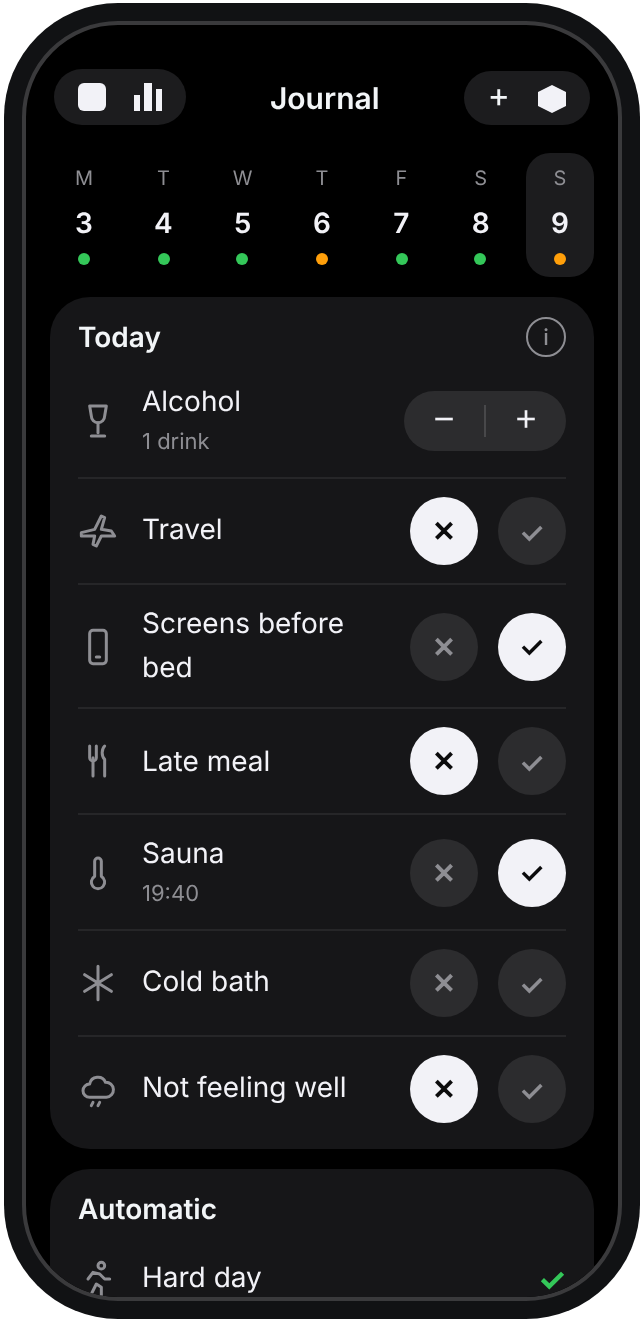
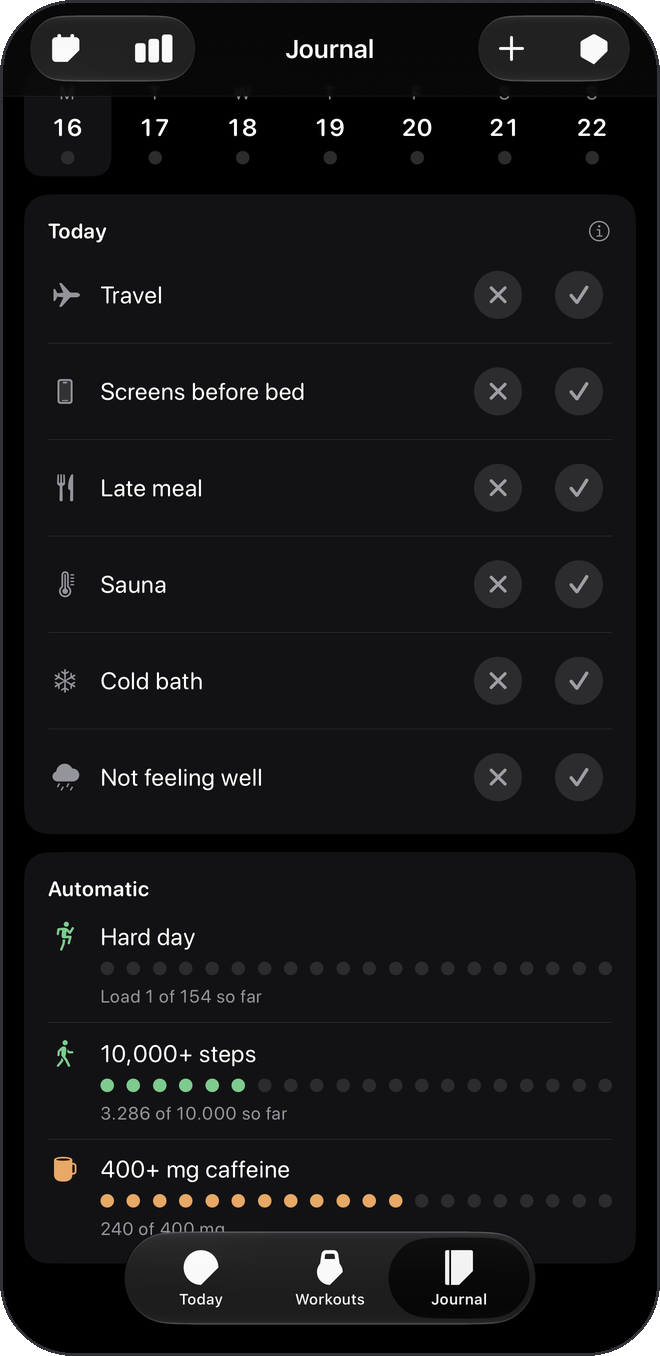
New screenshots: three-phone hero, fresh Journal, "Your Today, your way"
- Hero: three phones (Today, running dynamics, Journal) instead of one Today screen
- Journal screenshot replaced with the current design
- New section "Your Today, your way" with the edit-mode screenshot
- Removed the unused old Today screenshot

Claude-Session: https://claude.ai/code/session_01QmMcUr5iFopbERcNR8XppQ

diff --git a/index.html b/index.html
@@ -30,8 +30,8 @@
             <span class="cta-note">No account. Your data stays on your iPhone.</span>
           </div>
         </div>
-        <div class="split-media">
-          <img class="screen" src="assets/screen-today.png" width="660" height="1410" alt="Throttle Today screen with Readiness 48%, Target load and Sleep score 78%">
+        <div class="split-media hero-media">
+          <img class="hero-screens" src="assets/hero-screens.png" width="1240" height="983" alt="Throttle Today screen with Readiness, Target load and Sleep score, next to running dynamics and the Journal">
         </div>
       </section>
 
@@ -75,7 +75,7 @@
       <section class="split split-reverse">
         <div class="split-media">
           <div class="stack">
-            <img class="screen" src="assets/screen-journal.png" width="644" height="1324" alt="Throttle Journal: yes or no for tags such as sauna, late meal and screens before bed, and automatic tags" loading="lazy">
+            <img class="screen" src="assets/screen-journal.png" width="660" height="1356" alt="Throttle Journal: yes or no for tags such as sauna, late meal and screens before bed, and automatic tags" loading="lazy">
             <img class="float-card float-right" src="assets/card-insights.png" width="664" height="630" alt="Insights: Recovery 4 points higher after sauna, 9 points lower after alcohol" loading="lazy">
           </div>
         </div>
@@ -83,6 +83,17 @@
           <p class="eyebrow">Journal</p>
           <h2 class="section-title">Your habits next to your recovery.</h2>
           <p class="section-lead">Answer yes or no for things like sauna, a late meal or screens before bed. Steps, hard days and caffeine are filled in from Apple Health. Once there are enough nights, Throttle shows which tags go with a higher or lower recovery.</p>
+        </div>
+      </section>
+
+      <section class="split">
+        <div class="split-text">
+          <p class="eyebrow">Make it yours</p>
+          <h2 class="section-title">Your Today, your way.</h2>
+          <p class="section-lead">Hide the cards you don't need and move the ones you check most to the top. Pick any earlier day in the calendar to see how it looked.</p>
+        </div>
+        <div class="split-media">
+          <img class="screen" src="assets/screen-customize.png" width="660" height="1342" alt="Throttle Today screen in edit mode: cards for energy, load, steps, HRV, vitals, sleep debt, bedtime advice and stress, each with a remove button" loading="lazy">
         </div>
       </section>
 

diff --git a/assets/site.css b/assets/site.css
@@ -279,6 +279,20 @@ footer {
   height: auto;
 }
 
+.hero-split .split-text {
+  flex: 1 1 380px;
+}
+
+.hero-media {
+  flex: 1.4 1 520px;
+}
+
+.hero-screens {
+  width: 100%;
+  max-width: 640px;
+  height: auto;
+}
+
 .hero-split .lead {
   max-width: 520px;
   margin: 0 0 28px;
